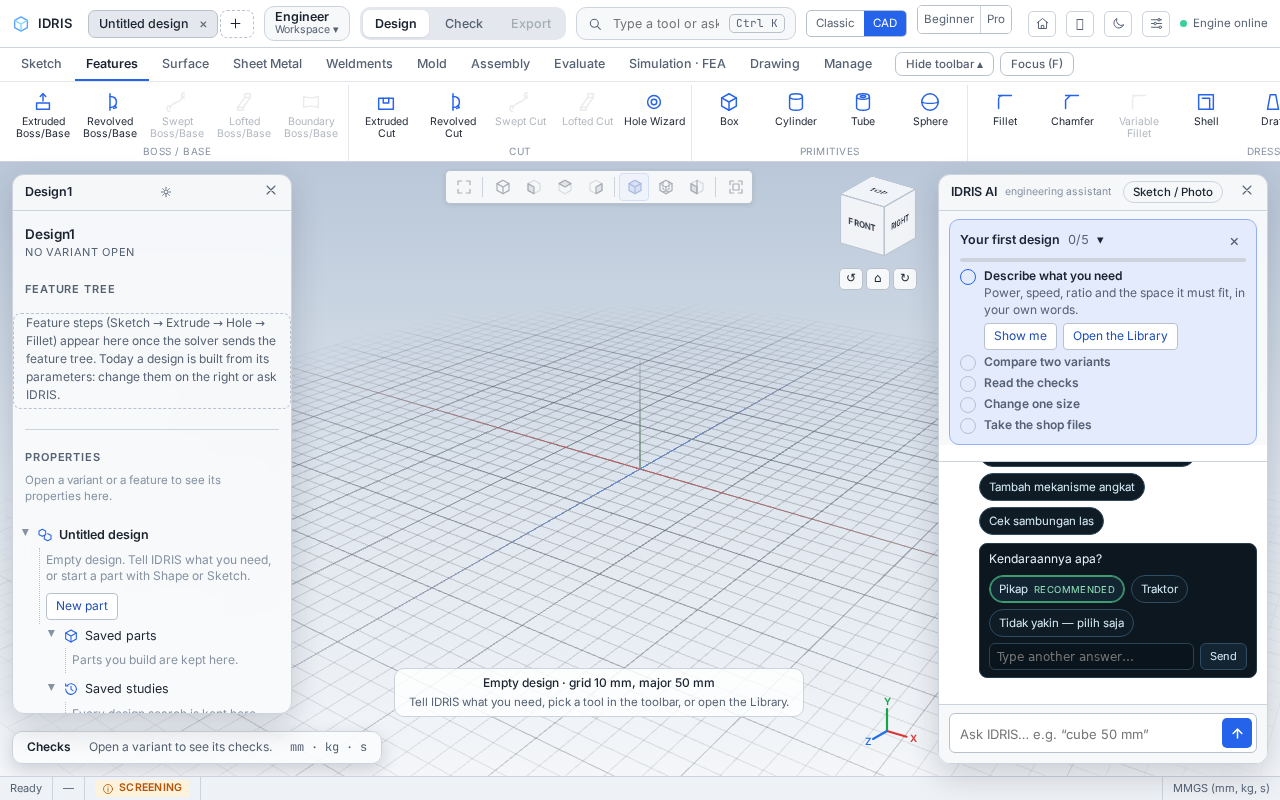
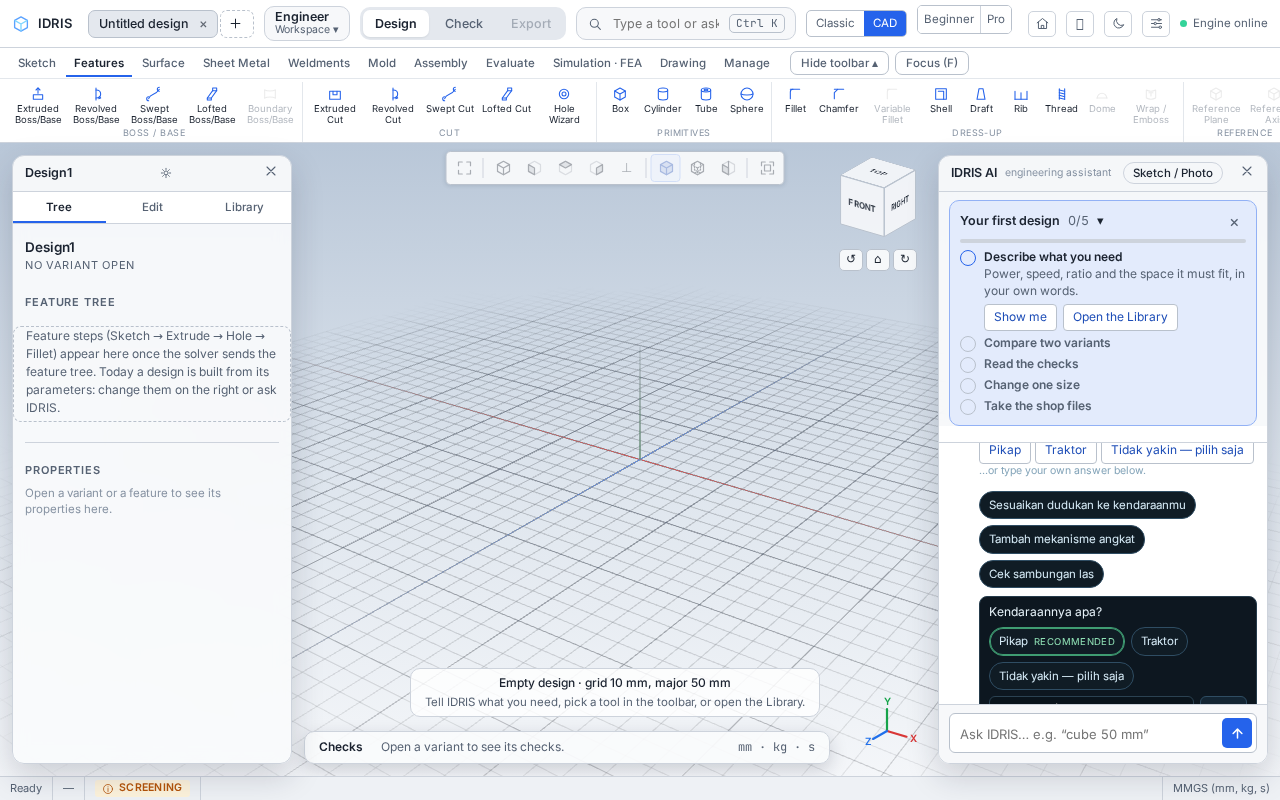
References: a web number is confirmed by the engineer, a pattern is chosen by them
Stage 2 already showed the cards; what the brief asked for is the decision after them. Each candidate number now has "Use this number", which sends it as the engineer's own input (never as a computed value) and then goes quiet, and the patterns have "Use this pattern / Combine / Skip". The status line reports the solver's own "Found N, reading k" with the card count.

Changed region(s): [[0.0, 0.0625, 1.0, 0.9688], [0.1562, 0.25, 0.2188, 0.2812], [0.6875, 0.8438, 0.7188, 0.875]]

diff --git a/index.html b/index.html
@@ -12525,7 +12525,10 @@ let colleagueLast = null, refsFetched = '';
  .sug-row{display:flex;flex-wrap:wrap;gap:6px;margin:6px 0 2px}
  .sug-btn,.q-chip{font:inherit;font-size:11.5px;padding:5px 9px;border-radius:14px;border:1px solid #2f4d63;
    background:#101c25;color:#d7ecf8;cursor:pointer;text-align:left}
- .sug-btn:hover,.q-chip:hover{border-color:#4ea6d8;background:#132533}
+ .sug-btn:hover,.pat-btn:hover,.q-chip:hover{border-color:#4ea6d8;background:#132533}
+ .pat-btn{font:inherit;font-size:11.5px;padding:5px 9px;border-radius:14px;border:1px solid #2f4d63;
+   background:#101c25;color:#d7ecf8;cursor:pointer;text-align:left}
+ .pat-btn:disabled,.sug-btn:disabled{opacity:.55;cursor:default}
  .q-wrap{display:flex;flex-direction:column;gap:8px;margin:8px 0 2px}
  .q-card{border:1px solid #263c4c;border-radius:8px;padding:7px 9px;background:#0d1720}
  .q-t{margin:0 0 6px;font-size:12px;color:#e7f3fa}
@@ -12540,7 +12543,9 @@ let colleagueLast = null, refsFetched = '';
  .ref-card{border:1px solid #263c4c;border-radius:8px;padding:7px;background:#0d1720;display:flex;flex-direction:column;gap:4px}
  .ref-thumb{width:100%;max-height:72px;object-fit:cover;border-radius:5px}
  .ref-t{color:#7fd6ff;font-size:12px;text-decoration:none;font-weight:600}
- .ref-num{font-size:10.5px;color:#cbd9a0}
+ .ref-num{font-size:10.5px;color:#cbd9a0;display:flex;align-items:center;gap:6px;justify-content:space-between;flex-wrap:wrap}
+ .ref-num .q-chip{font-size:10px;padding:3px 7px}
+ .ref-num .q-chip:disabled{opacity:.65;cursor:default}
  .asm-panel{border:1px solid #2b4252;border-radius:8px;padding:7px 9px;margin:6px 0 2px;background:#0b151d}
  .asm-panel b{font-size:11px;text-transform:uppercase;letter-spacing:.05em;color:#9fc2d6}
  .asm-row{display:flex;align-items:center;gap:6px;margin:5px 0}
@@ -12616,9 +12621,33 @@ function colleagueRefCard(c) {
   if (c.what_it_is) card.append(para(String(c.what_it_is), 'm'));
   if (Array.isArray(c.key_features) && c.key_features.length) card.append(para(String(c.key_features.join(' · ')), 'm'));
   (Array.isArray(c.numbers_found) ? c.numbers_found : []).slice(0, 4).forEach((n) => {
-    card.append(h('div', { class: 'ref-num' }, `${n.value} ${n.unit || ''} · ${String(n.label || 'web — not verified')}`));
+    const row = h('div', { class: 'ref-num' }, h('span', null, `${n.value} ${n.unit || ''} · ${String(n.label || 'web — not verified')}`));
+    /* A web number is a candidate until the engineer says otherwise: this button is that confirmation, and it is
+     * sent as the engineer's own input — never as a value the solver computed. */
+    const use = h('button', { class: 'q-chip', title: L('Sends this number to IDRIS as your confirmation. It is a candidate from the web, not a calculation.',
+      'Mengirim angka ini ke IDRIS sebagai konfirmasi kamu. Ini kandidat dari web, bukan hasil perhitungan.') },
+      L('Use this number', 'Pakai angka ini'));
+    use.addEventListener('click', () => {
+      use.disabled = true; use.textContent = L('sent as your confirmation', 'terkirim sebagai konfirmasi');
+      handleText(`Use this number (I confirm it): ${n.value} ${n.unit || ''} — from ${c.source_url || 'the source'}. Treat it as my input, not as a computed value.`);
+    });
+    row.append(use); card.append(row);
   });
   return card;
+}
+/** The patterns are suggestions, so they are offered, never applied: each button sends the engineer's choice as a
+ *  message and then goes quiet, so it is clear the choice was made once. */
+function colleaguePatternRow(patterns) {
+  if (!Array.isArray(patterns) || !patterns.length) return null;
+  const row = h('div', { class: 'sug-row' });
+  const pick = (label, text, why) => {
+    const b = h('button', { class: 'pat-btn', title: why, onclick: () => { row.querySelectorAll('button').forEach((x) => { x.disabled = true; }); handleText(text); } }, label);
+    row.append(b);
+  };
+  pick(L('Use this pattern', 'Pakai pola ini'), `Use this pattern as the base: ${patterns[0]}`, L('Sends this pattern as your choice; nothing is applied by itself.', 'Mengirim pola ini sebagai pilihanmu; tidak ada yang diterapkan sendiri.'));
+  if (patterns.length > 1) pick(L('Combine', 'Gabungkan'), `Combine these patterns: ${patterns.join('; ')}`, L('Sends both patterns as your choice.', 'Mengirim kedua pola sebagai pilihanmu.'));
+  pick(L('Skip', 'Lewati'), 'Skip the references — compare two concepts instead.', L('Goes on without the web references.', 'Lanjut tanpa referensi web.'));
+  return row;
 }
 async function colleagueReferences(j, bodyEl) {
   const brief = typeof chatBrief !== 'undefined' ? chatBrief : null;
@@ -12634,7 +12663,9 @@ async function colleagueReferences(j, bodyEl) {
     const r = await fetch(API + '/references/design', { method: 'POST', headers: { 'Content-Type': 'application/json' }, body: JSON.stringify({ brief: b, project_id: colleagueProjectId() }) });
     const d = await r.json();
     const live = box.querySelector('.ref-live');
-    if (live) live.textContent = (d.steps || []).slice(-1)[0] || '';
+    const steps = Array.isArray(d.steps) ? d.steps.map(String) : [];
+    const found = steps.slice().reverse().find((s) => /^Found \d+, reading \d+/.test(s));
+    if (live) live.textContent = found ? `${found}${(d.cards || []).length ? ` · ${(d.cards || []).length} cards` : ''}` : (steps.slice(-1)[0] || '');
     if (!d || !d.ok || !(d.cards || []).length) {
       if (live) live.textContent = (d && d.error) || L('Web search is not available; using the solver references.', 'Pencarian web tidak tersedia; memakai referensi solver.');
       return;
@@ -12642,6 +12673,8 @@ async function colleagueReferences(j, bodyEl) {
     (d.cards || []).slice(0, 6).forEach((c) => box.append(colleagueRefCard(c)));
     if (Array.isArray(d.patterns) && d.patterns.length) box.append(para(L('Patterns: ', 'Pola: ') + d.patterns.join('; '), 'm'));
     if (d.proposal) box.append(para(String(d.proposal), 'm'));
+    const pat = colleaguePatternRow(d.patterns); if (pat) box.append(pat);
+    if (d.note) box.append(h('p', { class: 'hint' }, String(d.note)));
   } catch (e) {
     const live = box.querySelector('.ref-live');
     if (live) live.textContent = L('Web search is not available right now.', 'Pencarian web tidak tersedia saat ini.');
